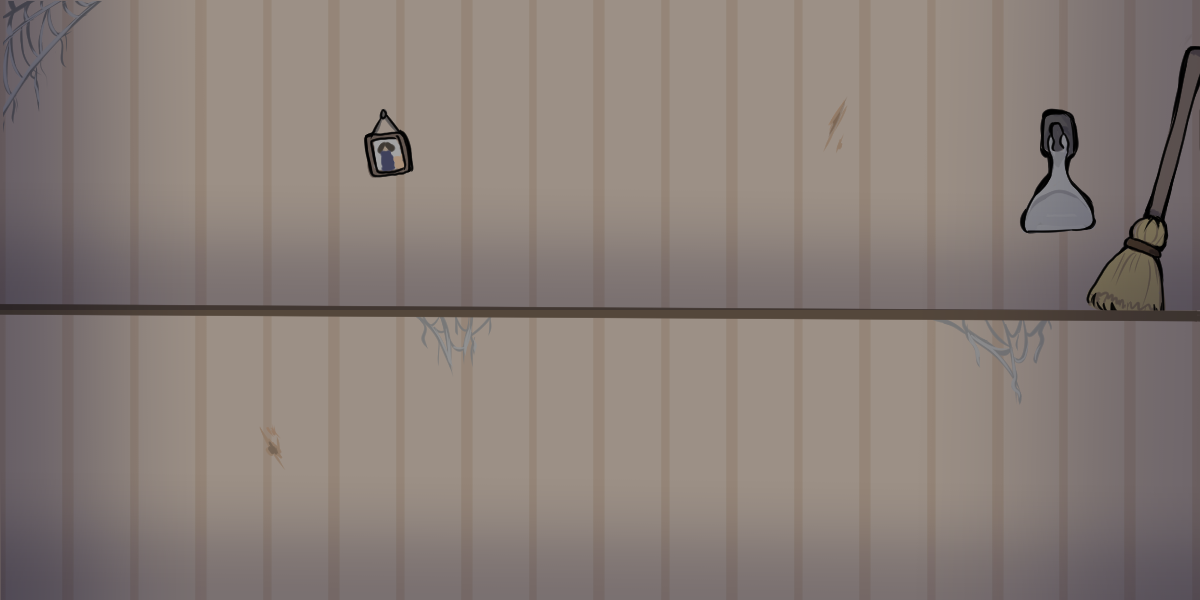
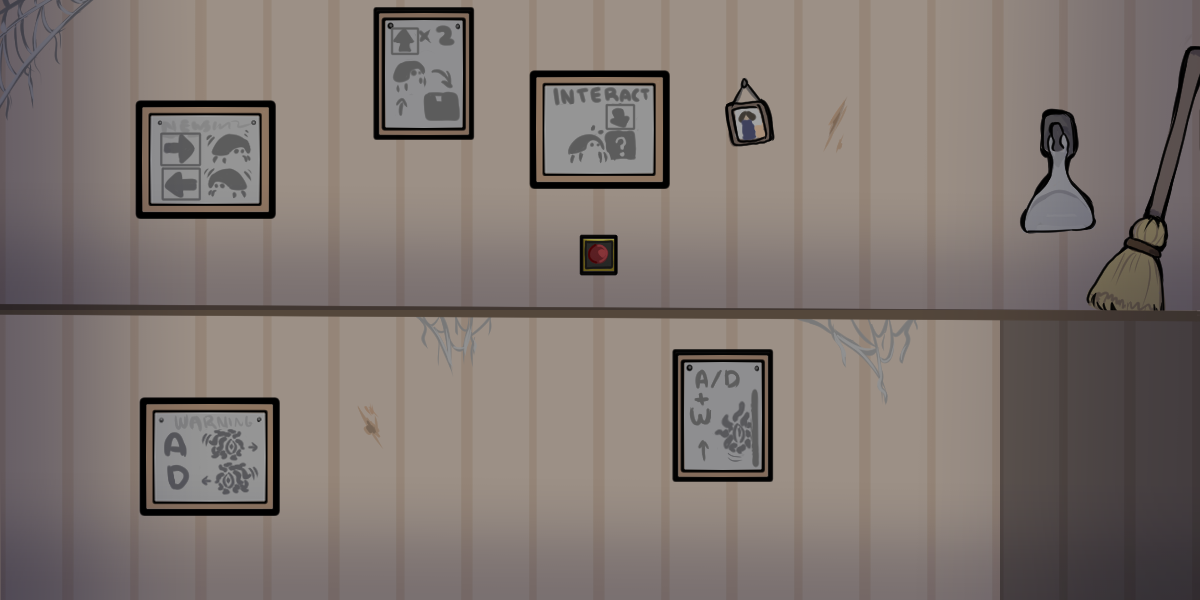
more tutorial stuff/updated bg + no more soft lock

diff --git a/src/Stage/Tutorial.js b/src/Stage/Tutorial.js
@@ -17,6 +17,7 @@ class Tutorial extends Phaser.Scene{
         this.load.image('crab', './assets/Crab.png');
         this.load.image('platformY', './assets/wood_platformY.png');
         this.load.atlas('tenti_atlas', './assets/tentisheet.png', './assets/tentimap.json');
+        this.load.image('box', './assets/box.png');
 
         this.load.spritesheet('fox','./assets/foxani.png', {
             frameWidth: 48,
@@ -128,21 +129,34 @@ class Tutorial extends Phaser.Scene{
         this.interact_switch = false;
 
         // init interact
-        this.switch = this.physics.add.sprite(game.config.width/3 + 200,game.config.height/2 -100, 'switch').setScale(0.1);
+        this.switch = this.physics.add.sprite(game.config.width/3 + 200,game.config.height/2 -100, 'switch').setScale(1);
+        this.switch.alpha = 0;
         this.physics.add.collider(this.switch,this.platform);
 
-        this.box = this.physics.add.sprite(game.config.width/3 - 100,game.config.height/2 - 40, 'box_fragile').setScale(1);
+        this.box = this.physics.add.sprite(game.config.width/3 + 20,game.config.height/2 - 40, 'box_fragile').setScale(1);
         this.physics.add.collider(this.box,this.platform);
         this.physics.add.collider(this.box,this.player2);
         this.box.setImmovable(true);
         this.box.body.allowGravity = false;
 
-        this.rock = this.physics.add.sprite(game.config.width - 250,game.config.height - 60, 'box_fragile').setScale(1);
+        this.rock = this.physics.add.sprite(game.config.width - 250, game.config.height - 60, 'box_fragile').setScale(1);
         this.rockPlat = this.physics.add.collider(this.rock,this.platform);
         this.physics.add.collider(this.rock,this.player1);
         this.physics.add.collider(this.rock, this.player2);
         this.rock.setImmovable(true);
         this.rock.body.allowGravity = false;
+
+        this.boxStack1 = this.physics.add.sprite(game.config.width - 260, game.config.height - 150, 'box').setScale(1.2);
+        this.physics.add.collider(this.boxStack1,this.player1);
+        this.physics.add.collider(this.boxStack1, this.player2);
+        this.boxStack1.setImmovable(true);
+        this.boxStack1.body.allowGravity = false;
+        this.boxStack2 = this.physics.add.sprite(game.config.width - 330, game.config.height - 60, 'box').setScale(1);
+        this.physics.add.collider(this.boxStack2,this.player1);
+        this.physics.add.collider(this.boxStack2, this.player2);
+        this.boxStack2.setImmovable(true);
+        this.boxStack2.body.allowGravity = false;
+
 
         this.button = this.physics.add.sprite(game.config.width, game.config.height/2 - 600, "box_fragile").setScale(1);
         this.physics.add.collider(this.button,this.platform2);
@@ -167,12 +181,12 @@ class Tutorial extends Phaser.Scene{
             //console.log(this.interact_switch)
         },null,this);
         
-        this.intro = this.add.text(borderUISize + borderPadding, borderUISize + borderPadding*2 - 50,"Player 1 is the top one, Controlled by Left Right Up arrow");
-        this.intro2 = this.add.text(borderUISize + borderPadding, borderUISize + borderPadding*2 - 20,"Able to double jump");
-        this.intro3 = this.add.text(borderUISize + borderPadding, borderUISize + borderPadding*2 + 10,"Player 2 is the bottom one, Controlled by WAD");
-        this.intro4 = this.add.text(borderUISize + borderPadding, borderUISize + borderPadding*2 + 30,"can wall climb by A/D + W to wall climb when blocked by object");
-        this.intro5 = this.add.text(borderUISize + borderPadding, 320,"Player 1 can interact with the switch");
-        this.intro9 = this.add.text(borderUISize + borderPadding, 350,"by pressing Down arrow when it is overlap with the switch");
+        //this.intro = this.add.text(borderUISize + borderPadding, borderUISize + borderPadding*2 - 50,"Player 1 is the top one, Controlled by Left Right Up arrow");
+        //this.intro2 = this.add.text(borderUISize + borderPadding, borderUISize + borderPadding*2 - 20,"Able to double jump");
+        //this.intro3 = this.add.text(borderUISize + borderPadding, borderUISize + borderPadding*2 + 10,"Player 2 is the bottom one, Controlled by WAD");
+        //this.intro4 = this.add.text(borderUISize + borderPadding, borderUISize + borderPadding*2 + 30,"can wall climb by A/D + W to wall climb when blocked by object");
+        //this.intro5 = this.add.text(borderUISize + borderPadding, 320,"Player 1 can interact with the switch");
+        //this.intro9 = this.add.text(borderUISize + borderPadding, 350,"by pressing Down arrow when it is overlap with the switch");
     }
 
     update(){
